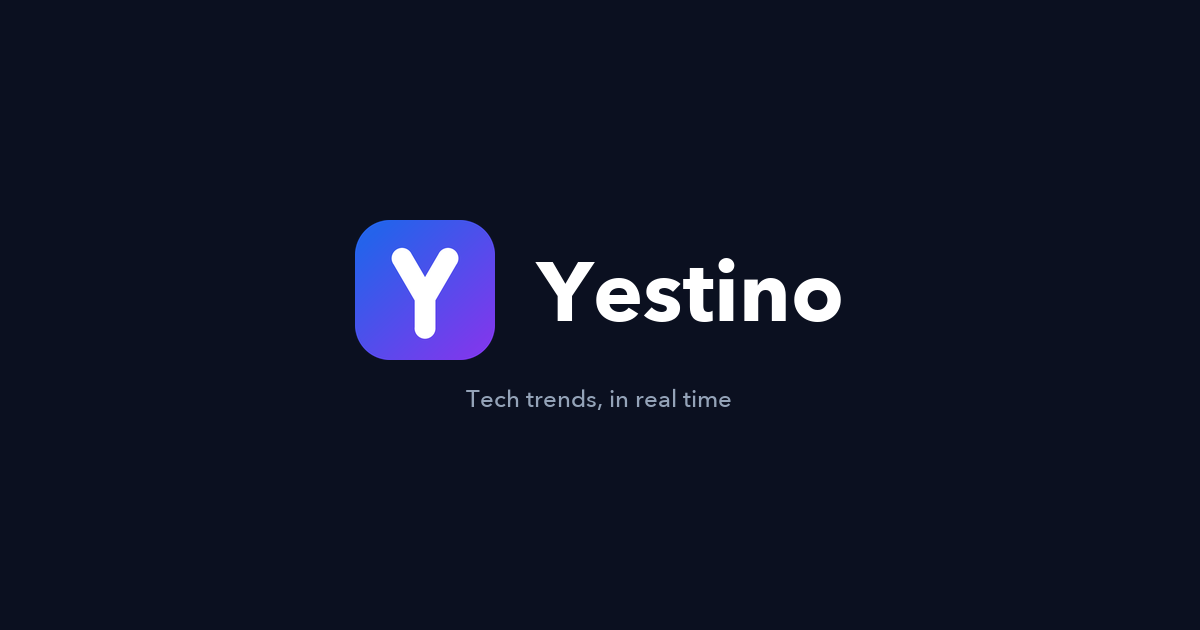
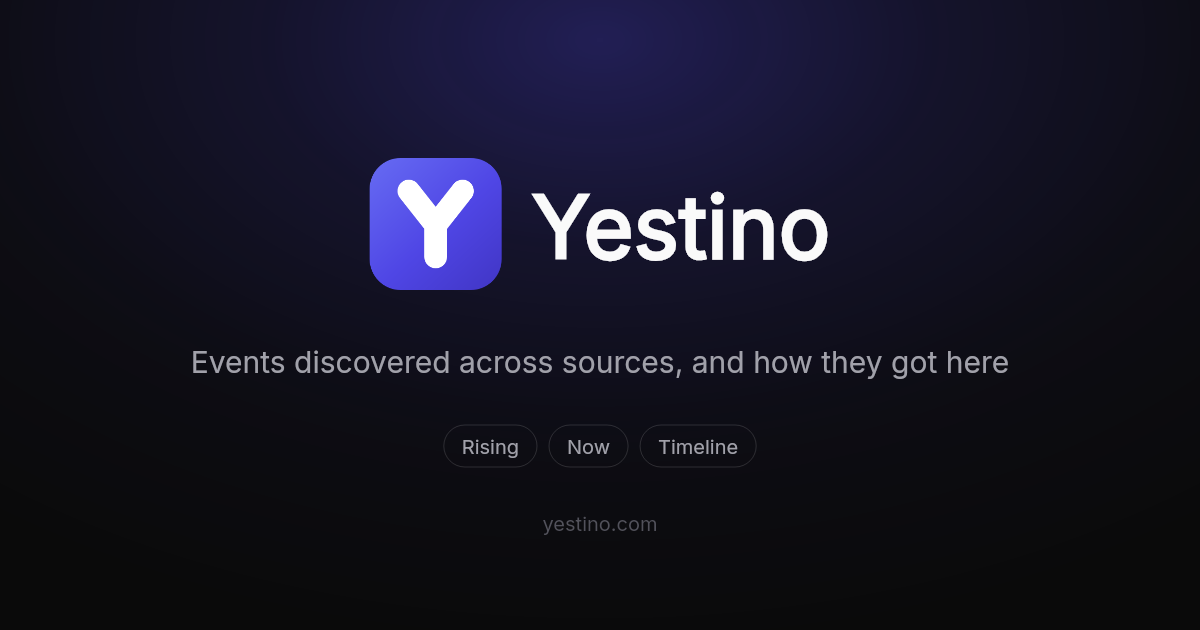
feat(yestino-brand): add brand assets generation and update apply script
This commit introduces a new script for generating Yestino brand assets, including `og.png` and `favicon-512.png`, from a single SVG source. It also updates the `apply-yestino-brand` script to support a new command-line option for replacing the favicon with a PNG version. Additionally, the README is added to document the brand assets and their generation process, ensuring consistency in branding across the site.

diff --git a/apps/server/scripts/apply-yestino-brand.ts b/apps/server/scripts/apply-yestino-brand.ts
@@ -1,6 +1,7 @@
 /* eslint-disable no-console */
 /**
- * 把 Yestino 品牌标（数据流 Y）写入指定租户的官网 logo / favicon / og:image。
+ * 把 Yestino 品牌标（两条来源汇成一条时间线的 Y）写入指定租户的官网
+ * logo / favicon / og:image。资产真源见 `scripts/yestino-brand/README.md`。
  *
  * 只改 `theme_settings` 两列里的品牌字段，不走 `publishSiteDraft`，避免把未发布的
  * 页头页脚草稿一并推上线。
@@ -10,6 +11,7 @@
  *   pnpm --filter server exec tsx scripts/apply-yestino-brand.ts --slug yestino
  *   pnpm --filter server exec tsx scripts/apply-yestino-brand.ts --slug yestino --no-primary
  *   pnpm --filter server exec tsx scripts/apply-yestino-brand.ts --slug yestino --favicon-svg
+ *   pnpm --filter server exec tsx scripts/apply-yestino-brand.ts --slug yestino --favicon-png
  *   pnpm --filter server exec tsx scripts/apply-yestino-brand.ts --slug yestino --og-only
  */
 import { readFile } from "node:fs/promises";
@@ -35,6 +37,11 @@ interface Args {
   setPrimary: boolean;
   /** 不重新上传，只把 favicon 指到现有的 SVG logo。 */
   faviconSvg: boolean;
+  /**
+   * 只换 favicon：传 512 PNG 并指过去。给 SVG favicon 支持不佳的浏览器兜底，
+   * logo 仍然用 SVG（页头是矢量场景）。
+   */
+  faviconPng: boolean;
   /** 只换 OG 图，不动 logo / favicon / 主色。 */
   ogOnly: boolean;
 }
@@ -43,6 +50,7 @@ function parseArgs(argv: string[]): Args {
   let dryRun = false;
   let setPrimary = true;
   let faviconSvg = false;
+  let faviconPng = false;
   let ogOnly = false;
   let slug = "yestino";
   for (let i = 0; i < argv.length; i += 1) {
@@ -59,6 +67,10 @@ function parseArgs(argv: string[]): Args {
       faviconSvg = true;
       continue;
     }
+    if (token === "--favicon-png") {
+      faviconPng = true;
+      continue;
+    }
     if (token === "--og-only") {
       ogOnly = true;
       continue;
@@ -71,7 +83,7 @@ function parseArgs(argv: string[]): Args {
   if (!slug) {
     throw new Error("需要 --slug <tenant-slug>");
   }
-  return { dryRun, slug, setPrimary, faviconSvg, ogOnly };
+  return { dryRun, slug, setPrimary, faviconSvg, faviconPng, ogOnly };
 }
 
 async function readAsset(
@@ -136,6 +148,39 @@ async function main(): Promise<void> {
       },
     });
     console.log("[apply-yestino-brand] favicon now uses the SVG mark");
+    return;
+  }
+
+  if (args.faviconPng) {
+    const favicon = await readAsset("favicon-512.png", "image/png");
+    console.log(
+      `[apply-yestino-brand] tenant=${tenant.slug} favicon ${live.favicon_url ?? ""} ← ${favicon.buffer.byteLength}B png`,
+    );
+    if (args.dryRun) {
+      console.log("[apply-yestino-brand] dry-run, no writes");
+      return;
+    }
+    const faviconAsset = await uploadSiteAsset({
+      tenant_id: tenant.id,
+      tenant_slug: tenant.slug,
+      buffer: favicon.buffer,
+      mime_type: favicon.mime_type,
+    });
+    await updateSiteAssetAlt(tenant.id, tenant.slug, faviconAsset.id, "Yestino");
+    await prisma.marketingSite.update({
+      where: { tenant_id: tenant.id },
+      data: {
+        theme_settings: {
+          ...live,
+          favicon_url: faviconAsset.url,
+        } as Prisma.InputJsonValue,
+        theme_settings_draft: {
+          ...draft,
+          favicon_url: faviconAsset.url,
+        } as Prisma.InputJsonValue,
+      },
+    });
+    console.log(`[apply-yestino-brand] wrote favicon=${faviconAsset.url}`);
     return;
   }
 

diff --git a/apps/server/scripts/yestino-brand/README.md b/apps/server/scripts/yestino-brand/README.md
@@ -1,0 +1,41 @@
+# yestino-brand
+
+yestino.com（events 模块当首页的那个站点）的品牌资产真源。
+
+## 文件
+
+| 文件 | 是什么 | 谁生成 |
+| --- | --- | --- |
+| `mark.svg` | 品牌标 / logo / favicon，256×256 圆角块 | 手改 |
+| `mark-mono.svg` | 单色版（容器走 `currentColor`），印刷 / 单色场景 | 手改，几何跟随 `mark.svg` |
+| `og.png` | og:image，1200×630 | `generate.mjs` |
+| `favicon-512.png` | favicon 的 PNG 兜底 / 应用图标 / 社媒头像 | `generate.mjs` |
+
+**只手改 SVG**，位图一律重跑生成脚本：
+
+```bash
+pnpm --filter server exec node scripts/yestino-brand/generate.mjs
+```
+
+再写进站点（改 `theme_settings` 两列，不发布页头页脚草稿）：
+
+```bash
+pnpm --filter server exec tsx scripts/apply-yestino-brand.ts --dry-run --slug yestino
+pnpm --filter server exec tsx scripts/apply-yestino-brand.ts --slug yestino
+```
+
+## 设计口径
+
+跟着官网当前的样子走，不另立一套：
+
+- **主色**：容器渐变只在官网 accent `#4F46E5` 的同色相里走深浅（`#6366F1 → #4F46E5 → #4338CA`）。
+  官网通篇只有一个 accent，标里不该出现第二种色相。
+- **形**：两条来源线汇成一条时间线 —— events 的产品口径（跨来源发现 → 合并 → 重建时间线），
+  同时读作字母 Y。
+- **尺寸下限是 24px**：官网页头 `.logo{height:1.5rem}`。所以笔画粗（44/256）、
+  不放分离的小元素（试过「时间线末端的 now 圆点」和「虚线来源臂」，24px 以下都糊成一团）。
+- **OG 图**：底色 / 文字色 / 边框色 / 顶部光晕全部照抄官网深色模式 token 与 `.sec-glow`；
+  胶囊沿用事件卡片上的状态胶囊样式（只描边不填色）；文案取官网 `/en` 的现行 description
+  与两个首页段名（Rising / Now）。**改官网文案时记得回来改 `generate.mjs` 顶部的常量。**
+
+字体用官网自己发的 Inter（`apps/client/public/assets/site-fonts`），不吃系统字体——换台机器出图一致。
